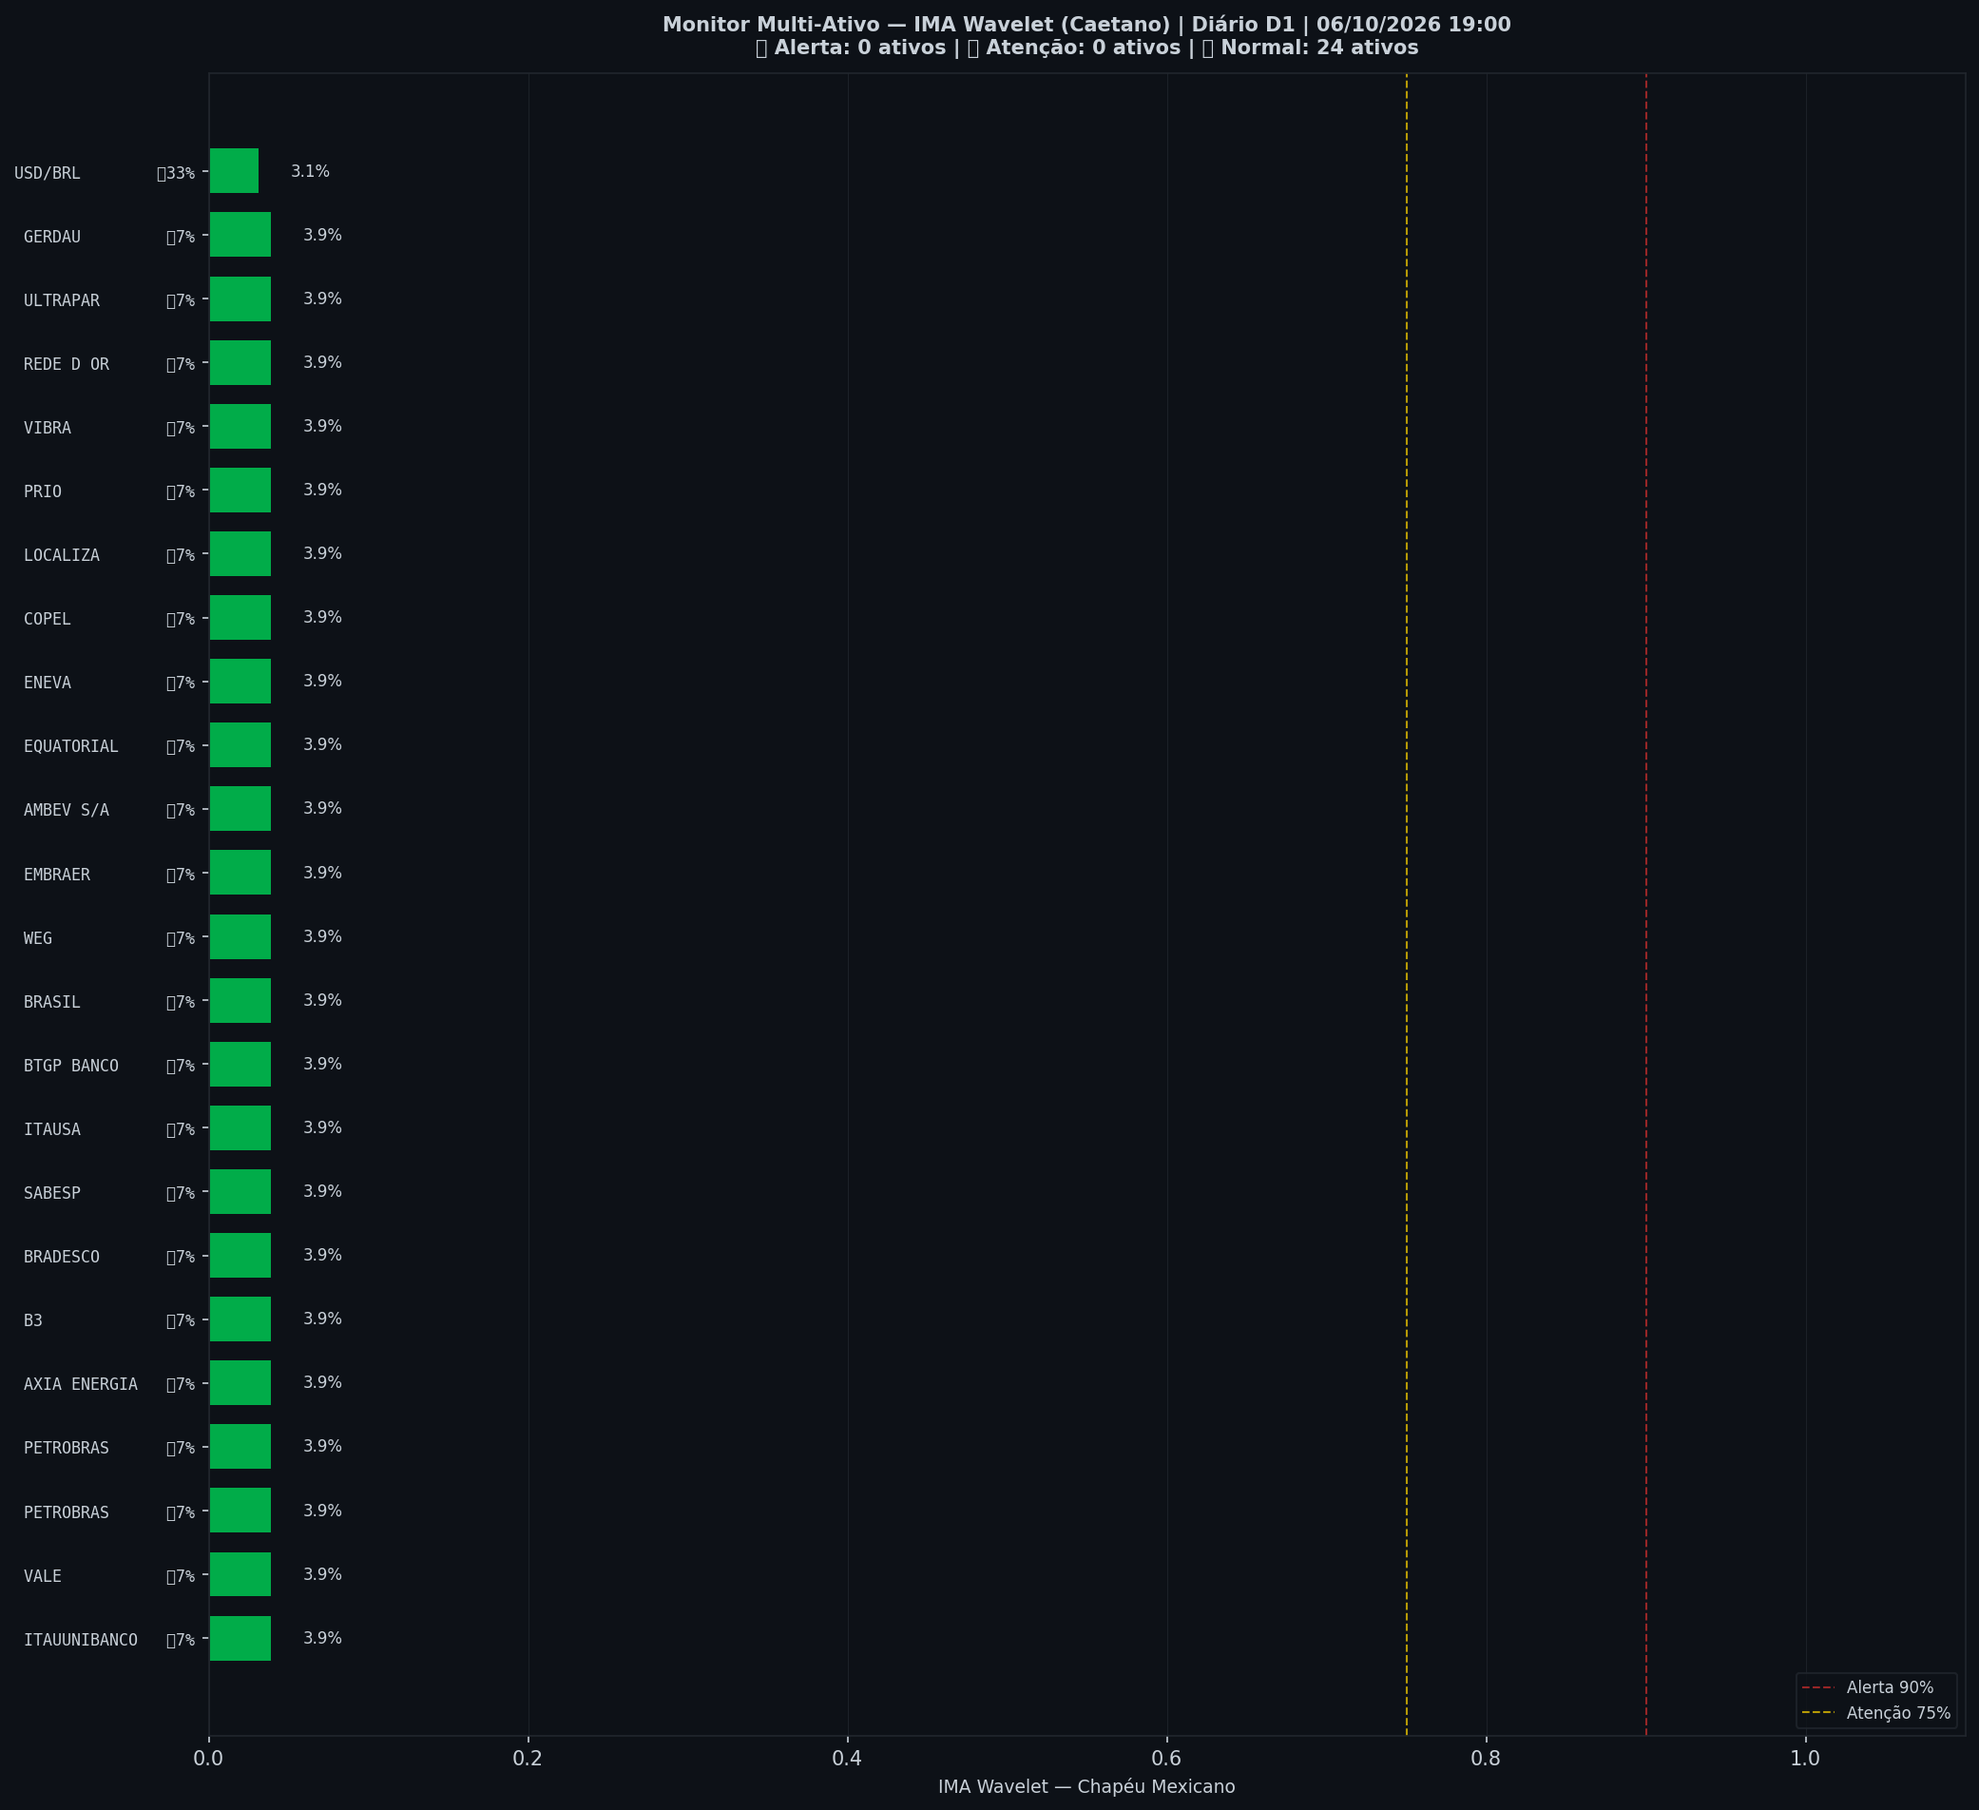
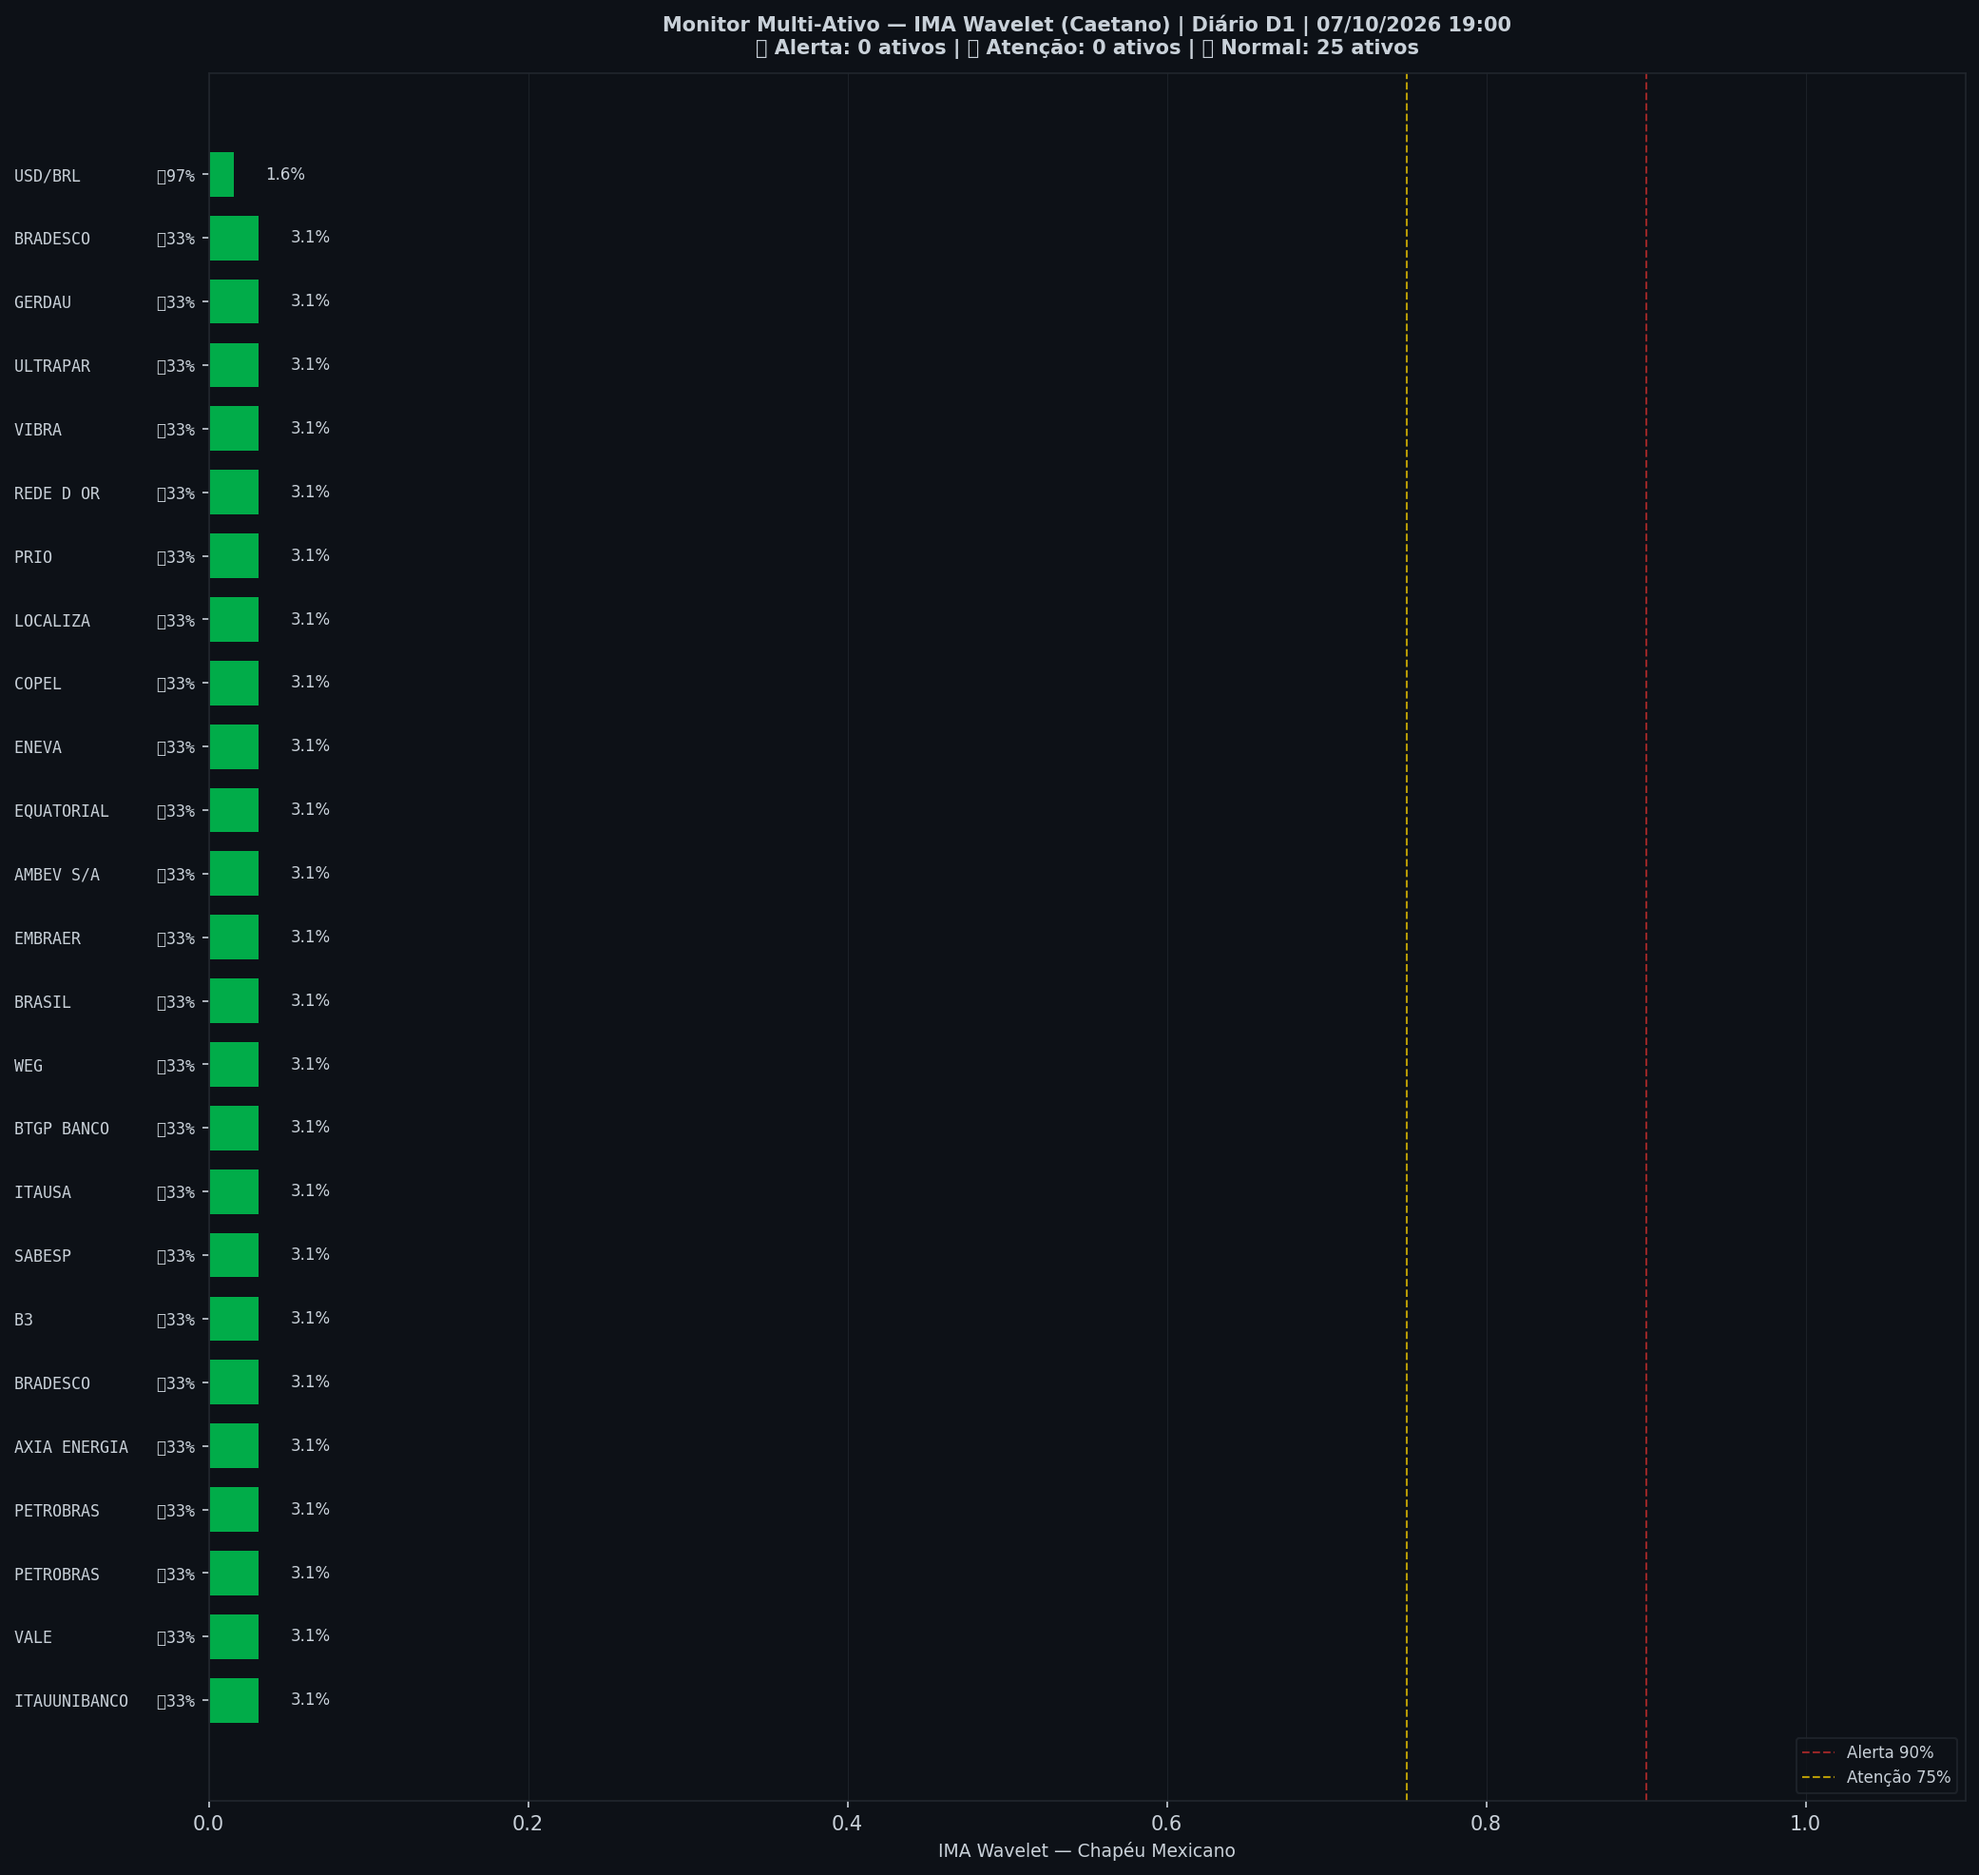
🤖 Auto: Sinal 07/10/2026 19:00

diff --git a/content/diario/2026-10-06.md b/content/diario/2026-10-06.md
@@ -1,0 +1,103 @@
+---
+title: "🟢 Diário 06/10/2026 — VERDE"
+date: 2026-10-07
+tags: [diario]
+---
+
+> [!success] 🟢 **VERDE** — Risco 24% · ▲ +9 p.p. vs leitura anterior
+> `█████░░░░░░░░░░░░░░░`
+> Mercado sem sinais relevantes de estresse.
+
+
+| Indicador | Valor |
+|---|---|
+| 🔴 ζ Crash — severidade da queda em curso | **40%** |
+| 🔵 ζ Entrada — estrutura de fundo | 1% |
+| 🫧 LPPL DS-Confidence | 0% |
+| 📊 Ibovespa | 204.302 pts |
+
+![Gráfico do sinal](../graficos/sinal_diario.png)
+
+## Últimos 30 pregões
+
+| Data | Zona | Risco | IMA Crash | Entrada | LPPL |
+|---|---|---|---|---|---|
+| 2026-10-06 21:00 | 🟢 VERDE | **24%** | 40% | 1% | 0% |
+| 2026-10-05 21:00 | 🟢 VERDE | **15%** | 25% | 2% | 0% |
+| 2026-10-04 21:00 | 🟢 VERDE | **4%** | 6% | 4% | 0% |
+| 2026-10-01 21:00 | 🟢 VERDE | **1%** | 2% | 5% | 0% |
+| 2026-09-30 21:00 | 🟢 VERDE | **0%** | 0% | 9% | 0% |
+| 2026-09-29 21:00 | 🟢 VERDE | **0%** | 0% | 11% | 0% |
+| 2026-09-28 21:00 | 🟢 VERDE | **0%** | 0% | 11% | 0% |
+| 2026-09-27 21:00 | 🟢 VERDE | **0%** | 1% | 9% | 0% |
+| 2026-09-24 21:00 | 🟢 VERDE | **1%** | 2% | 5% | 0% |
+| 2026-09-23 21:00 | 🟢 VERDE | **0%** | 0% | 4% | 0% |
+| 2026-09-22 21:00 | 🟢 VERDE | **0%** | 0% | 3% | 0% |
+| 2026-09-21 21:00 | 🟢 VERDE | **0%** | 0% | 3% | 0% |
+| 2026-09-20 21:00 | 🟢 VERDE | **1%** | 2% | 4% | 0% |
+| 2026-09-17 21:00 | 🟢 VERDE | **4%** | 7% | 3% | 0% |
+| 2026-09-16 21:00 | 🟢 VERDE | **9%** | 15% | 2% | 0% |
+| 2026-09-15 21:00 | 🟢 VERDE | **11%** | 18% | 2% | 0% |
+| 2026-09-14 21:00 | 🟢 VERDE | **37%** | 62% | 0% | 0% |
+| 2026-09-13 21:00 | 🟢 VERDE | **32%** | 53% | 0% | 0% |
+| 2026-09-10 21:00 | 🟢 VERDE | **30%** | 50% | 0% | 0% |
+| 2026-09-09 21:00 | 🟢 VERDE | **27%** | 45% | 0% | 0% |
+| 2026-09-08 21:00 | 🟢 VERDE | **22%** | 37% | 0% | 0% |
+| 2026-09-07 21:00 | 🟢 VERDE | **17%** | 28% | 0% | 0% |
+| 2026-09-03 21:00 | 🟢 VERDE | **6%** | 10% | 1% | 0% |
+| 2026-09-02 21:00 | 🟢 VERDE | **3%** | 5% | 5% | 0% |
+| 2026-09-01 21:00 | 🟢 VERDE | **8%** | 14% | 2% | 0% |
+| 2026-08-31 21:00 | 🟢 VERDE | **8%** | 12% | 0% | 0% |
+| 2026-08-30 21:00 | 🟢 VERDE | **8%** | 12% | 0% | 0% |
+| 2026-08-27 21:00 | 🟢 VERDE | **6%** | 9% | 0% | 0% |
+| 2026-08-26 21:00 | 🟢 VERDE | **4%** | 6% | 1% | 0% |
+| 2026-08-25 21:00 | 🟢 VERDE | **2%** | 4% | 6% | 0% |
+
+## Monitor Multi-Ativo
+
+**0% dos ativos em tensão** (0🔴 0🟡) — quanto mais ativos disparam juntos, mais confiável o sinal.
+
+| Zona | Ativo | Setor | IMA Crash | IMA Entrada |
+|---|---|---|---|---|
+| 🟢 | **ITAUUNIBANCO** | Financeiro | 3.1% | 32.8% |
+| 🟢 | **VALE** | Mineração | 3.1% | 32.8% |
+| 🟢 | **PETROBRAS** | Petróleo | 3.1% | 32.8% |
+| 🟢 | **PETROBRAS** | Petróleo | 3.1% | 32.8% |
+| 🟢 | **AXIA ENERGIA** | Energia | 3.1% | 32.8% |
+| 🟢 | **BRADESCO** | Financeiro | 3.1% | 32.8% |
+| 🟢 | **B3** | Financeiro | 3.1% | 32.8% |
+| 🟢 | **SABESP** | Saneamento | 3.1% | 32.8% |
+| 🟢 | **ITAUSA** | Financeiro | 3.1% | 32.8% |
+| 🟢 | **BTGP BANCO** | Financeiro | 3.1% | 32.8% |
+| 🟢 | **WEG** | Industrial | 3.1% | 32.8% |
+| 🟢 | **BRASIL** | Financeiro | 3.1% | 32.8% |
+| 🟢 | **EMBRAER** | Outros | 3.1% | 32.8% |
+| 🟢 | **AMBEV S/A** | Consumo | 3.1% | 32.8% |
+| 🟢 | **EQUATORIAL** | Energia | 3.1% | 32.8% |
+| 🟢 | **ENEVA** | Energia | 3.1% | 32.8% |
+| 🟢 | **COPEL** | Energia | 3.1% | 32.8% |
+| 🟢 | **LOCALIZA** | Aluguel | 3.1% | 32.8% |
+| 🟢 | **PRIO** | Petróleo | 3.1% | 32.8% |
+| 🟢 | **REDE D OR** | Saúde | 3.1% | 32.8% |
+| 🟢 | **VIBRA** | Energia | 3.1% | 32.8% |
+| 🟢 | **ULTRAPAR** | Outros | 3.1% | 32.8% |
+| 🟢 | **GERDAU** | Siderurgia | 3.1% | 32.8% |
+| 🟢 | **BRADESCO** | Outros | 3.1% | 32.8% |
+| 🟢 | **USD/BRL** | Câmbio | 1.6% | 96.9% |
+
+![Monitor multi-ativo](../graficos/multi_diario.png)
+
+*Página atualizada em 07/10/2026 19:00 BRT (leitura da barra de 2026-10-06 BRT).*
+
+> [!info]- Como interpretar (clique para expandir)
+> - **ζ Crash**: fração dos coeficientes wavelet acima do corte (Caetano & Yoneyama 2009). Escala absoluta: ζ=0,90 = 90% dos coeficientes anômalos — historicamente, quedas com ζ≥0,90 foram mais fundas e mais longas. **Mede a severidade do movimento em curso, não prevê o início da queda.**
+> - **ζ Entrada**: coeficientes negativos além do corte — estrutura de fundo, possível região de compra.
+> - **LPPL DS-Confidence**: fração de janelas (60–504 pregões) em que o modelo de bolha de Sornette produz um ajuste válido. 30% já é relevante; acima de 50% é forte evidência de estrutura de bolha.
+> - **Zonas com histerese**: o sinal só muda de zona ao cruzar o limiar de entrada, e só volta ao cruzar o de saída — evita flip-flop diário.
+
+
+---
+*Sinal de Crise B3 v4 · IMA Wavelet ([Caetano & Yoneyama, Physica-A 2007](https://doi.org/10.1016/j.physa.2007.03.054)) + LPPL DS-Confidence (Sornette, ETH-Zurich) · [Metodologia](metodologia) · [Histórico](historico)*
+
+> [!quote]- Aviso
+> Estudo acadêmico. Não constitui recomendação de investimento.

diff --git a/content/index.md b/content/index.md
@@ -8,19 +8,19 @@ tags: [home]
 
 Monitoramento diário e intraday do Ibovespa — **IMA Wavelet** (Prof. Marco Antonio Leonel Caetano, ITA/INSPER) + **LPPL DS-Confidence** (Prof. Didier Sornette, ETH-Zurich).
 
-*Última atualização: 07/10/2026 17:30 BRT · ^BVSP · Intraday 15min · v4*
+*Última atualização: 07/10/2026 19:00 BRT · ^BVSP · Diário D1 · v4*
 
-> [!success] 🟢 **VERDE** — Risco 0% · ＝ +0 p.p. vs leitura anterior
-> `░░░░░░░░░░░░░░░░░░░░`
+> [!success] 🟢 **VERDE** — Risco 24% · ▲ +9 p.p. vs leitura anterior
+> `█████░░░░░░░░░░░░░░░`
 > Mercado sem sinais relevantes de estresse.
 
 
 | Indicador | Valor |
 |---|---|
-| 🔴 ζ Crash — severidade da queda em curso | **0%** |
-| 🔵 ζ Entrada — estrutura de fundo | 10% |
+| 🔴 ζ Crash — severidade da queda em curso | **40%** |
+| 🔵 ζ Entrada — estrutura de fundo | 1% |
 | 🫧 LPPL DS-Confidence | 0% |
-| 📊 Ibovespa | 204.348 pts |
+| 📊 Ibovespa | 204.302 pts |
 
 **Multi-ativo:** 0% em tensão (0🔴 0🟡 de 25 ativos)
 
@@ -32,8 +32,13 @@ Monitoramento diário e intraday do Ibovespa — **IMA Wavelet** (Prof. Marco An
 
 | Data | Zona | Risco | IMA | LPPL |
 |---|---|---|---|---|
-| [07 Oct 2026](diario/2026-10-07) | 🟢 VERDE | **0%** | 0% | 0% |
-| [06 Oct 2026](diario/2026-10-06) | 🟢 VERDE | **0%** | 0% | 0% |
+| [06 Oct 2026](diario/2026-10-06) | 🟢 VERDE | **24%** | 40% | 0% |
+| [05 Oct 2026](diario/2026-10-05) | 🟢 VERDE | **15%** | 25% | 0% |
+| [04 Oct 2026](diario/2026-10-04) | 🟢 VERDE | **4%** | 6% | 0% |
+| [01 Oct 2026](diario/2026-10-01) | 🟢 VERDE | **1%** | 2% | 0% |
+| [30 Sep 2026](diario/2026-09-30) | 🟢 VERDE | **0%** | 0% | 0% |
+| [29 Sep 2026](diario/2026-09-29) | 🟢 VERDE | **0%** | 0% | 0% |
+| [28 Sep 2026](diario/2026-09-28) | 🟢 VERDE | **0%** | 0% | 0% |
 
 ## Navegação
 

diff --git a/content/historico.md b/content/historico.md
@@ -7,6 +7,7 @@ tags: [historico]
 
 | Data | Modo | Zona | Risco | IMA | LPPL |
 |---|---|---|---|---|---|
+| 2026-10-06 | diario | 🟢 VERDE | 24% | 40% | 0% |
 | 2026-10-07 16:45 | intraday | 🟢 VERDE | 0% | 0% | 0% |
 | 2026-10-07 16:30 | intraday | 🟢 VERDE | 0% | 0% | 0% |
 | 2026-10-07 16:15 | intraday | 🟢 VERDE | 0% | 0% | 0% |
